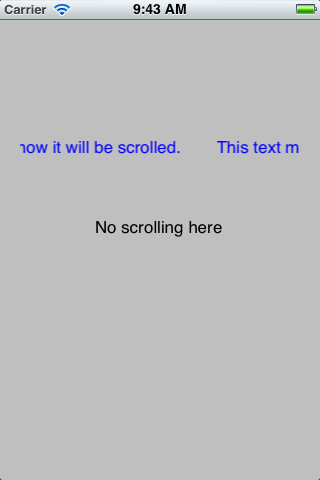
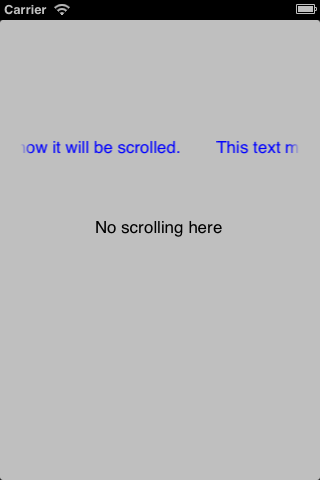
- update readme, screenshot

diff --git a/AutoScrollLabelDemo/AutoScrollLabelDemo/ASLViewController.m b/AutoScrollLabelDemo/AutoScrollLabelDemo/ASLViewController.m
@@ -27,7 +27,7 @@
     self.autoScrollLabel.pauseInterval = 1.7; // seconds of pause before scrolling starts again
     self.autoScrollLabel.scrollSpeed = 30; // pixels per second
     self.autoScrollLabel.textAlignment = UITextAlignmentCenter; // centers text when no auto-scrolling is applied
-    self.autoScrollLabel.fadeLength = 10.f;
+    self.autoScrollLabel.fadeLength = 12.f;
 }
 
 @end

diff --git a/README.md b/README.md
@@ -14,3 +14,4 @@ Usage:
     autoScrollLabel.pauseInterval = 3.7; // seconds of pause before scrolling starts again
     autoScrollLabel.scrollSpeed = 30; // pixels per second
     autoScrollLabel.textAlignment = UITextAlignmentCenter; // centers text when no auto-scrolling is applied
+    autoScrollLabel.fadeLength = 12.f; // length of the left and right edge fade, 0 to disable
